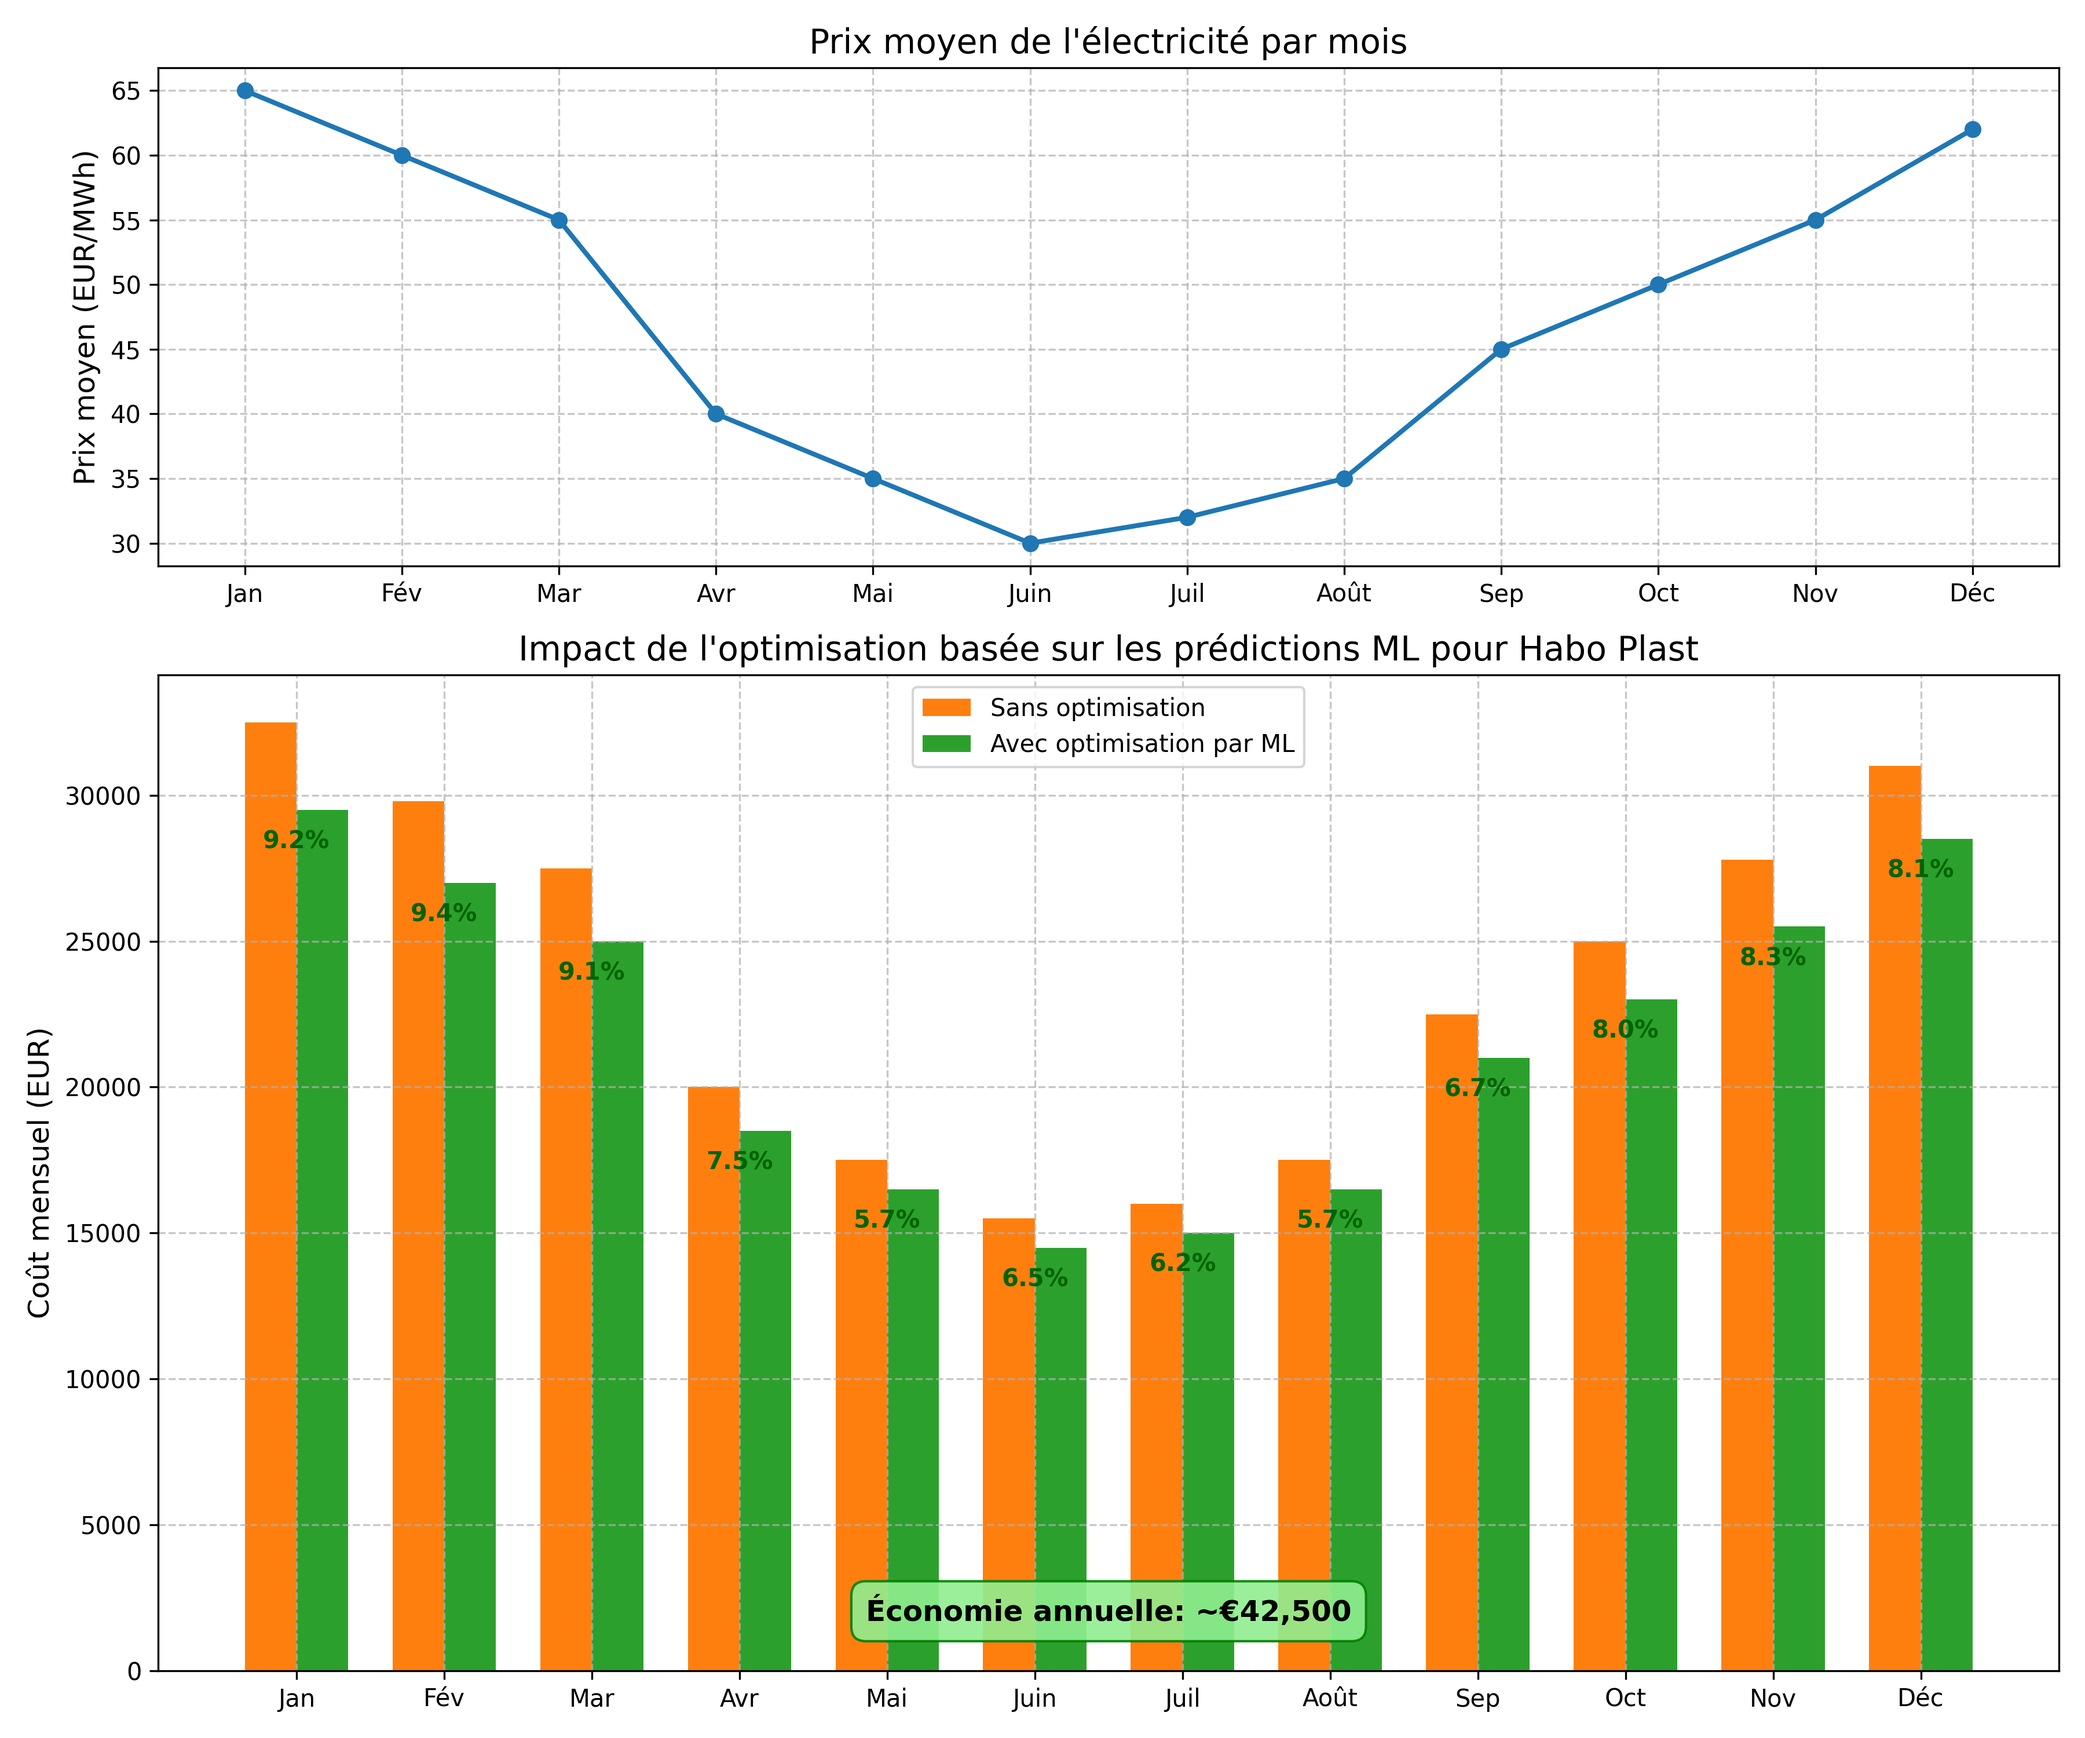
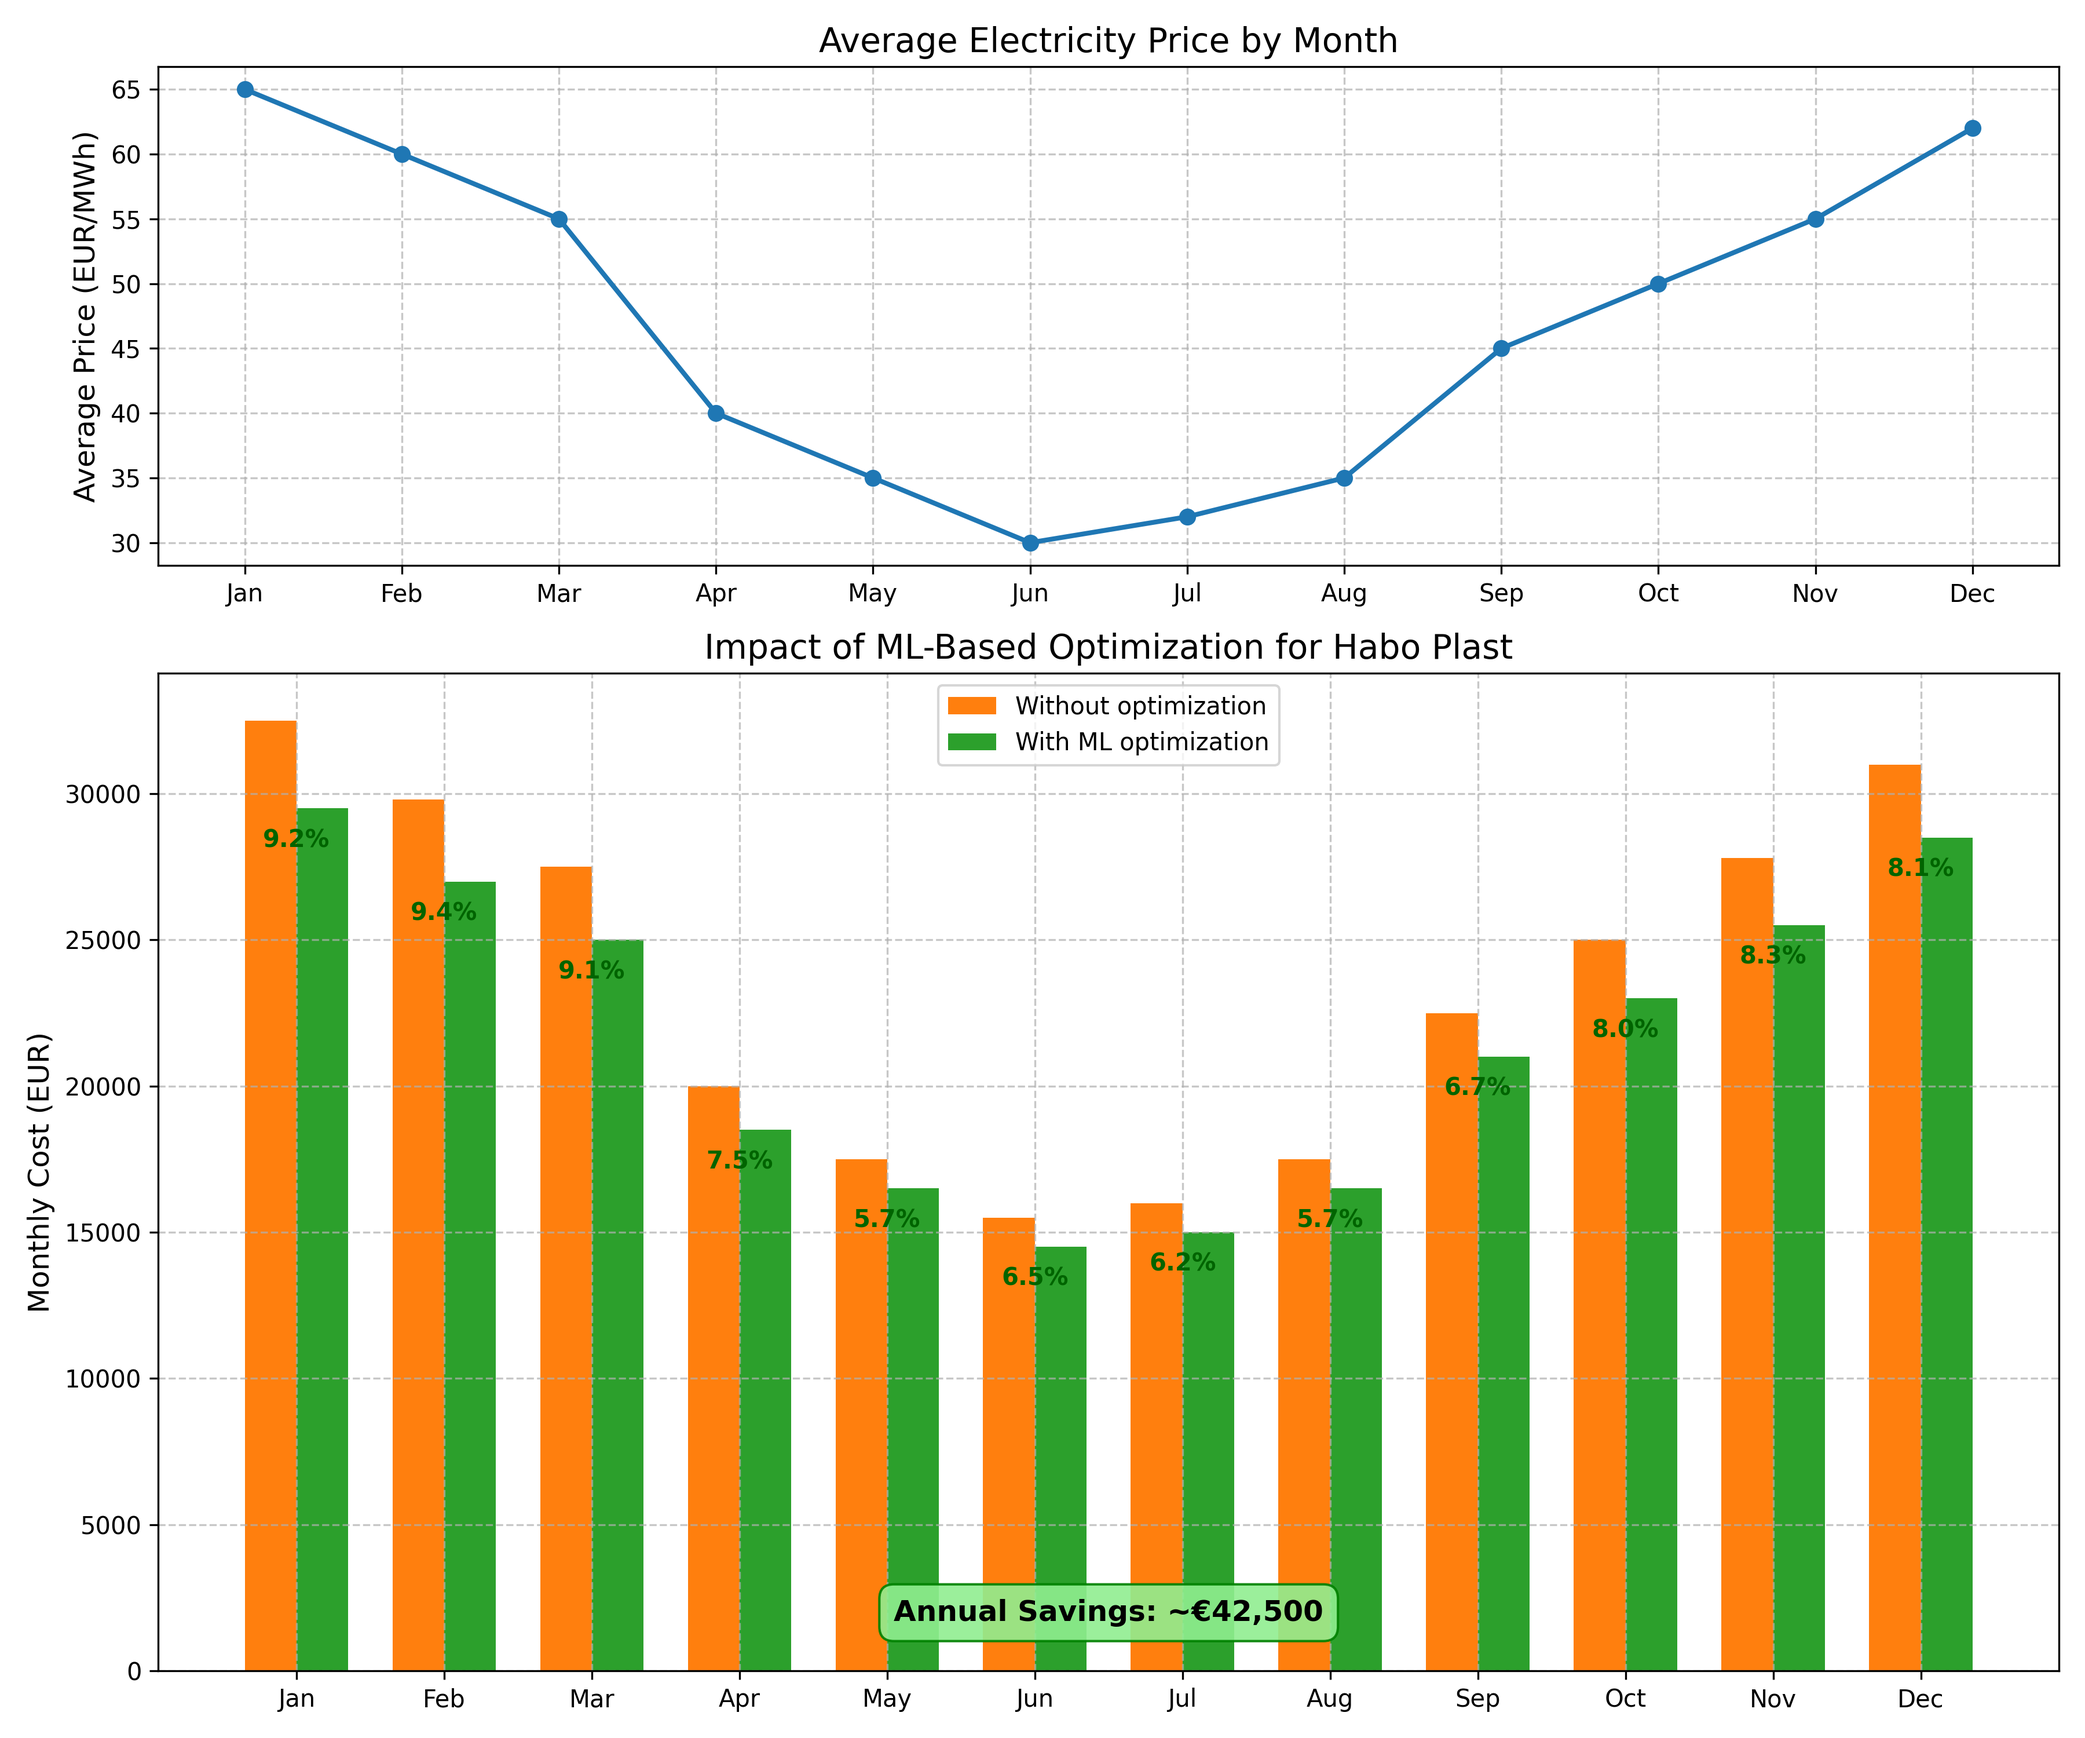
(add) interpretation

diff --git a/interpretation.py b/interpretation.py
@@ -4,99 +4,99 @@ import pandas as pd
 import seaborn as sns
 import os
 
-# Créer le dossier 'interpretation' s'il n'existe pas
+# Create 'interpretation' folder if it doesn't exist
 os.makedirs('./interpretation', exist_ok=True)
 
-# Créer des données pour le schéma d'importance des caractéristiques
+# Create data for the feature importance chart
 feature_importance = {
-    'Prix de la veille (lag_1)': 0.32,
-    'Moyenne mobile 7j (Price_MA7)': 0.28,
-    'Température': 0.15,
-    'Ensoleillement': 0.08,
-    'Saison': 0.07,
-    'Prix antérieurs (lag_2-7)': 0.06,
-    'Précipitations': 0.03,
-    'Neige': 0.01
+    'Previous day price (lag_1)': 0.32,
+    '7-day moving average (Price_MA7)': 0.28,
+    'Temperature': 0.15,
+    'Sunshine hours': 0.08,
+    'Season': 0.07,
+    'Previous prices (lag_2-7)': 0.06,
+    'Precipitation': 0.03,
+    'Snow depth': 0.01
 }
 
-# Créer un DataFrame pour le graphique
+# Create DataFrame for the chart
 df_importance = pd.DataFrame({
-    'Caractéristique': list(feature_importance.keys()),
+    'Feature': list(feature_importance.keys()),
     'Importance': list(feature_importance.values())
 }).sort_values('Importance', ascending=False)
 
-# Créer le graphique
+# Create the chart
 plt.figure(figsize=(10, 6))
-bars = plt.bar(df_importance['Caractéristique'], df_importance['Importance'], color=sns.color_palette("Blues_d", len(df_importance)))
+bars = plt.bar(df_importance['Feature'], df_importance['Importance'], color=sns.color_palette("Blues_d", len(df_importance)))
 
-# Ajouter les valeurs sur les barres
+# Add values on bars
 for bar in bars:
     height = bar.get_height()
     plt.text(bar.get_x() + bar.get_width()/2., height + 0.01,
              f'{height:.2f}', ha='center', va='bottom')
 
-# Ajouter les labels et le titre
-plt.title('Importance des caractéristiques pour la prédiction des prix d\'électricité', fontsize=14)
-plt.ylabel('Importance relative', fontsize=12)
+# Add labels and title
+plt.title('Feature Importance for Electricity Price Prediction', fontsize=14)
+plt.ylabel('Relative Importance', fontsize=12)
 plt.xticks(rotation=45, ha='right')
 plt.grid(axis='y', linestyle='--', alpha=0.7)
 plt.tight_layout()
 
-# Ajouter des annotations pour Habo Plast
-plt.figtext(0.5, 0.01, 'Implications pour Habo Plast: Surveillance des tendances de prix récentes et prévisions météo', 
+# Add annotations for Habo Plast
+plt.figtext(0.5, 0.01, 'Implications for Habo Plast: Monitor recent price trends and weather forecasts', 
            ha='center', fontsize=10, bbox={"facecolor":"lightblue", "alpha":0.5, "pad":5})
 
-# Sauvegarder l'image dans le dossier 'interpretation'
+# Save the image in the 'interpretation' folder
 plt.savefig('./interpretation/feature_importance_habo_plast.png', dpi=300)
 plt.close()
 
-# Créer un second graphique montrant l'impact sur les coûts
+# Create a second chart showing the impact on costs
 
-# Données simulées de réduction potentielle des coûts
-months = ['Jan', 'Fév', 'Mar', 'Avr', 'Mai', 'Juin', 'Juil', 'Août', 'Sep', 'Oct', 'Nov', 'Déc']
+# Simulated data for potential cost reduction
+months = ['Jan', 'Feb', 'Mar', 'Apr', 'May', 'Jun', 'Jul', 'Aug', 'Sep', 'Oct', 'Nov', 'Dec']
 avg_price = [65, 60, 55, 40, 35, 30, 32, 35, 45, 50, 55, 62]  # EUR/MWh
 optimized_cost = [29500, 27000, 25000, 18500, 16500, 14500, 15000, 16500, 21000, 23000, 25500, 28500]  # EUR
 standard_cost = [32500, 29800, 27500, 20000, 17500, 15500, 16000, 17500, 22500, 25000, 27800, 31000]  # EUR
 
-# Créer un DataFrame
+# Create DataFrame
 df_costs = pd.DataFrame({
-    'Mois': months,
-    'Prix moyen': avg_price,
-    'Coût standard': standard_cost,
-    'Coût optimisé': optimized_cost,
-    'Économies': [standard_cost[i] - optimized_cost[i] for i in range(len(months))]
+    'Month': months,
+    'Average Price': avg_price,
+    'Standard Cost': standard_cost,
+    'Optimized Cost': optimized_cost,
+    'Savings': [standard_cost[i] - optimized_cost[i] for i in range(len(months))]
 })
 
-# Créer le graphique
+# Create the chart
 fig, (ax1, ax2) = plt.subplots(2, 1, figsize=(12, 10), gridspec_kw={'height_ratios': [1, 2]})
 
-# Graphique du prix moyen
+# Average price chart
 ax1.plot(months, avg_price, marker='o', linestyle='-', color='#1f77b4', linewidth=2)
-ax1.set_ylabel('Prix moyen (EUR/MWh)', fontsize=12)
-ax1.set_title('Prix moyen de l\'électricité par mois', fontsize=14)
+ax1.set_ylabel('Average Price (EUR/MWh)', fontsize=12)
+ax1.set_title('Average Electricity Price by Month', fontsize=14)
 ax1.grid(True, linestyle='--', alpha=0.7)
 
-# Graphique des coûts
+# Cost chart
 width = 0.35
 x = np.arange(len(months))
-bars1 = ax2.bar(x - width/2, standard_cost, width, label='Sans optimisation', color='#ff7f0e')
-bars2 = ax2.bar(x + width/2, optimized_cost, width, label='Avec optimisation par ML', color='#2ca02c')
+bars1 = ax2.bar(x - width/2, standard_cost, width, label='Without optimization', color='#ff7f0e')
+bars2 = ax2.bar(x + width/2, optimized_cost, width, label='With ML optimization', color='#2ca02c')
 
-# Ajouter les économies comme annotations
+# Add savings as annotations
 for i in range(len(months)):
     savings = standard_cost[i] - optimized_cost[i]
     percentage = (savings / standard_cost[i]) * 100
     ax2.text(i, optimized_cost[i] - 1500, f"{percentage:.1f}%", ha='center', va='bottom', color='darkgreen', fontweight='bold')
 
-ax2.set_ylabel('Coût mensuel (EUR)', fontsize=12)
-ax2.set_title('Impact de l\'optimisation basée sur les prédictions ML pour Habo Plast', fontsize=14)
+ax2.set_ylabel('Monthly Cost (EUR)', fontsize=12)
+ax2.set_title('Impact of ML-Based Optimization for Habo Plast', fontsize=14)
 ax2.set_xticks(x)
 ax2.set_xticklabels(months)
 ax2.legend()
 ax2.grid(True, linestyle='--', alpha=0.7)
 
-# Ajouter une annotation explicative
-ax2.annotate('Économie annuelle: ~€42,500', xy=(0.5, 0.05), xycoords='axes fraction', 
+# Add explanatory annotation
+ax2.annotate('Annual Savings: ~€42,500', xy=(0.5, 0.05), xycoords='axes fraction', 
             bbox=dict(boxstyle="round,pad=0.5", fc="lightgreen", ec="green", alpha=0.9),
             ha='center', fontsize=12, fontweight='bold')
 
@@ -104,6 +104,6 @@ plt.tight_layout()
 plt.savefig('./interpretation/cost_optimization_habo_plast.png', dpi=300)
 plt.close()
 
-print("Les deux visualisations ont été générées dans le dossier 'interpretation':")
+print("Both visualizations have been generated in the 'interpretation' folder:")
 print("1. feature_importance_habo_plast.png")
 print("2. cost_optimization_habo_plast.png")
